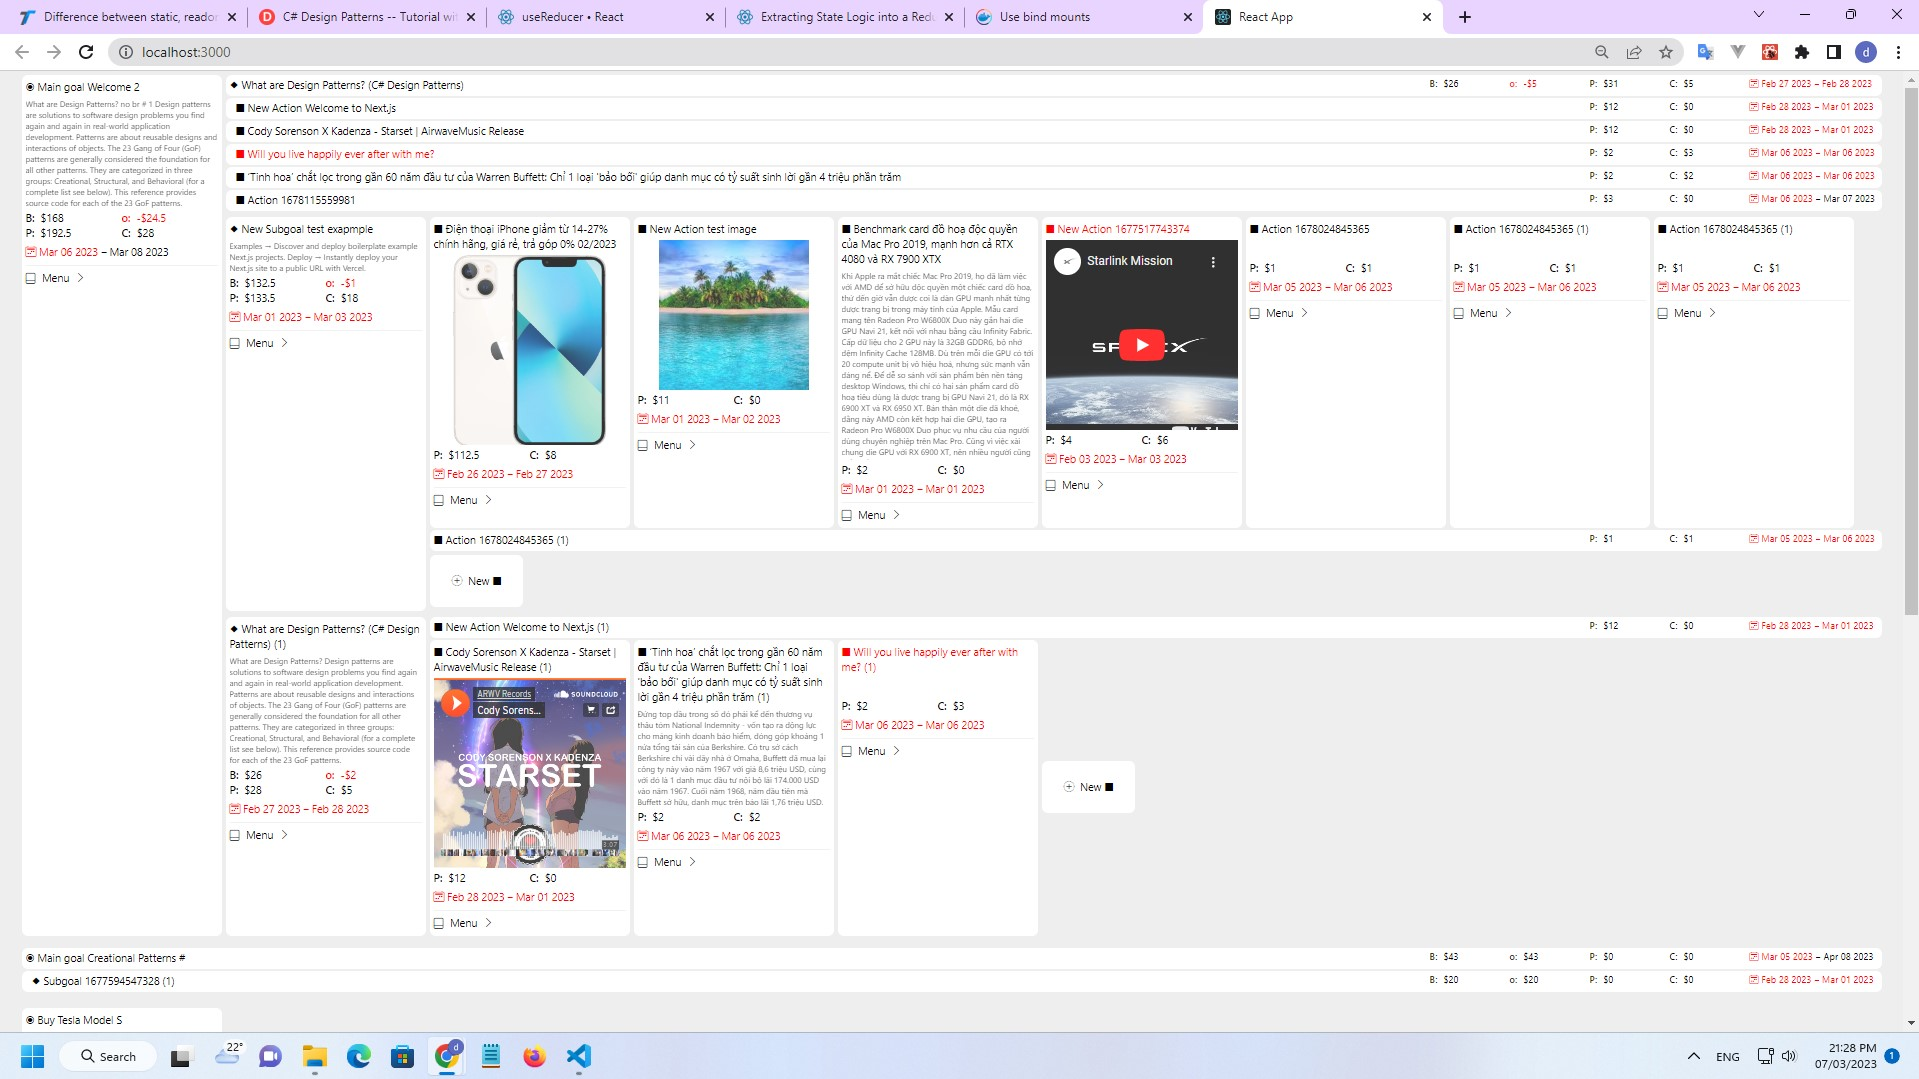
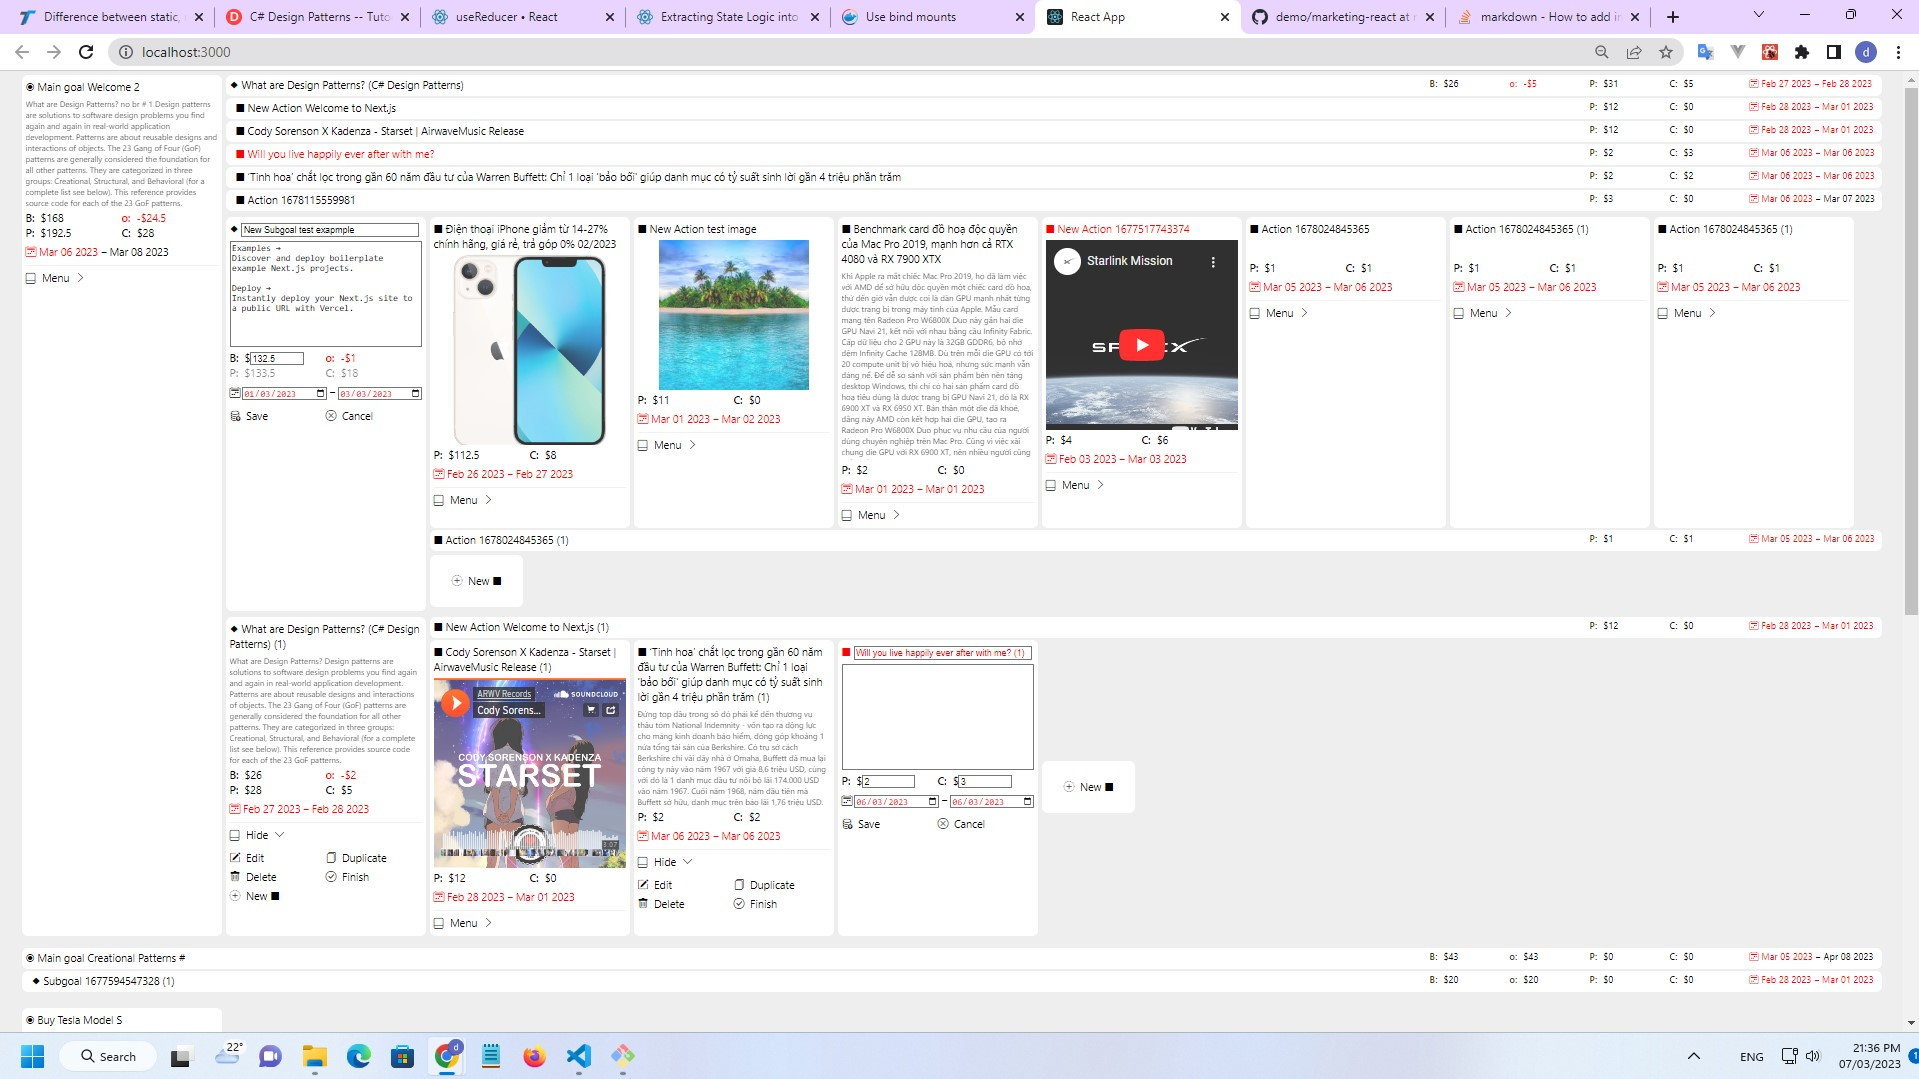
update code edit main sub

diff --git a/marketing-react/src/pages/Marketing/ItemView.js b/marketing-react/src/pages/Marketing/ItemView.js
@@ -163,7 +163,7 @@ export function ItemViewEdit({ children, isExpectLessTrue,
     }
     return (
         <div className={`dnb_item_container dnb_item_edit`}>
-            <div className={getClsExpLess()}>{getIcon(item.Typeid)} <input
+            <div className={getClsExpLess()}>{getIcon(item.TypeId)} <input
                 value={name} maxLength="150"
                 className={`dnb_edit_name ${getClsExpLess()}`}
                 type="text" onChange={handleChangeName}
